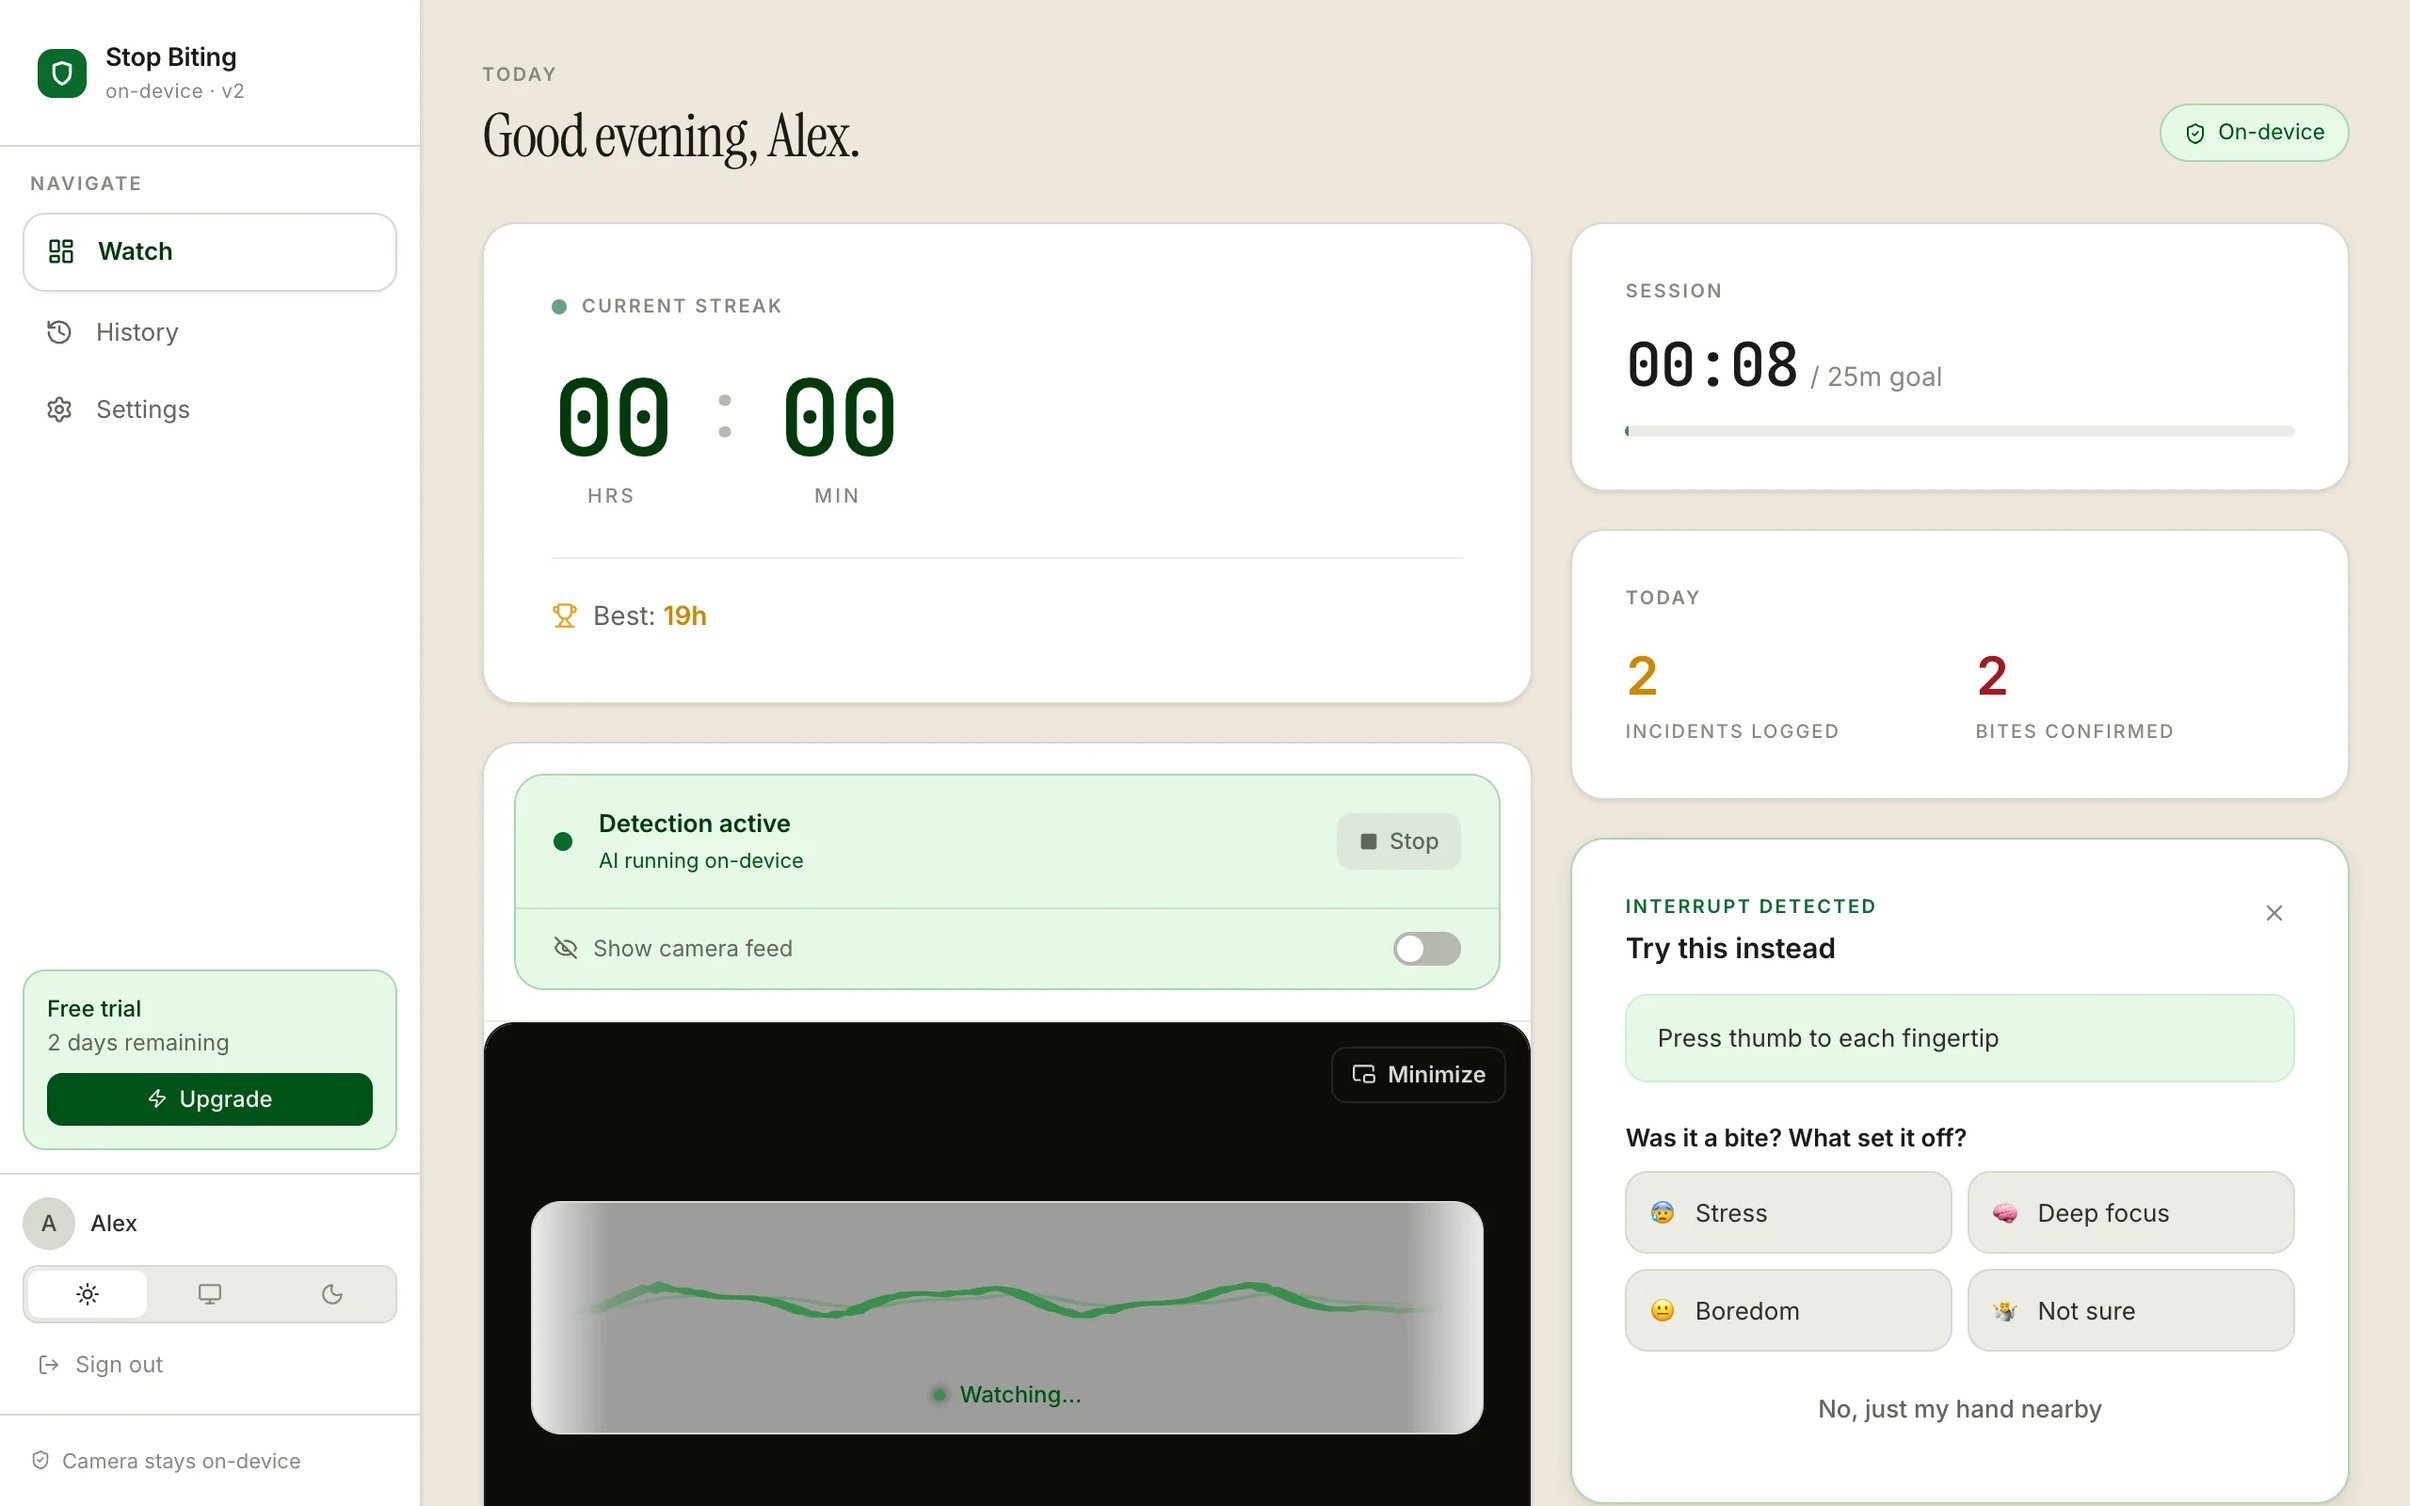
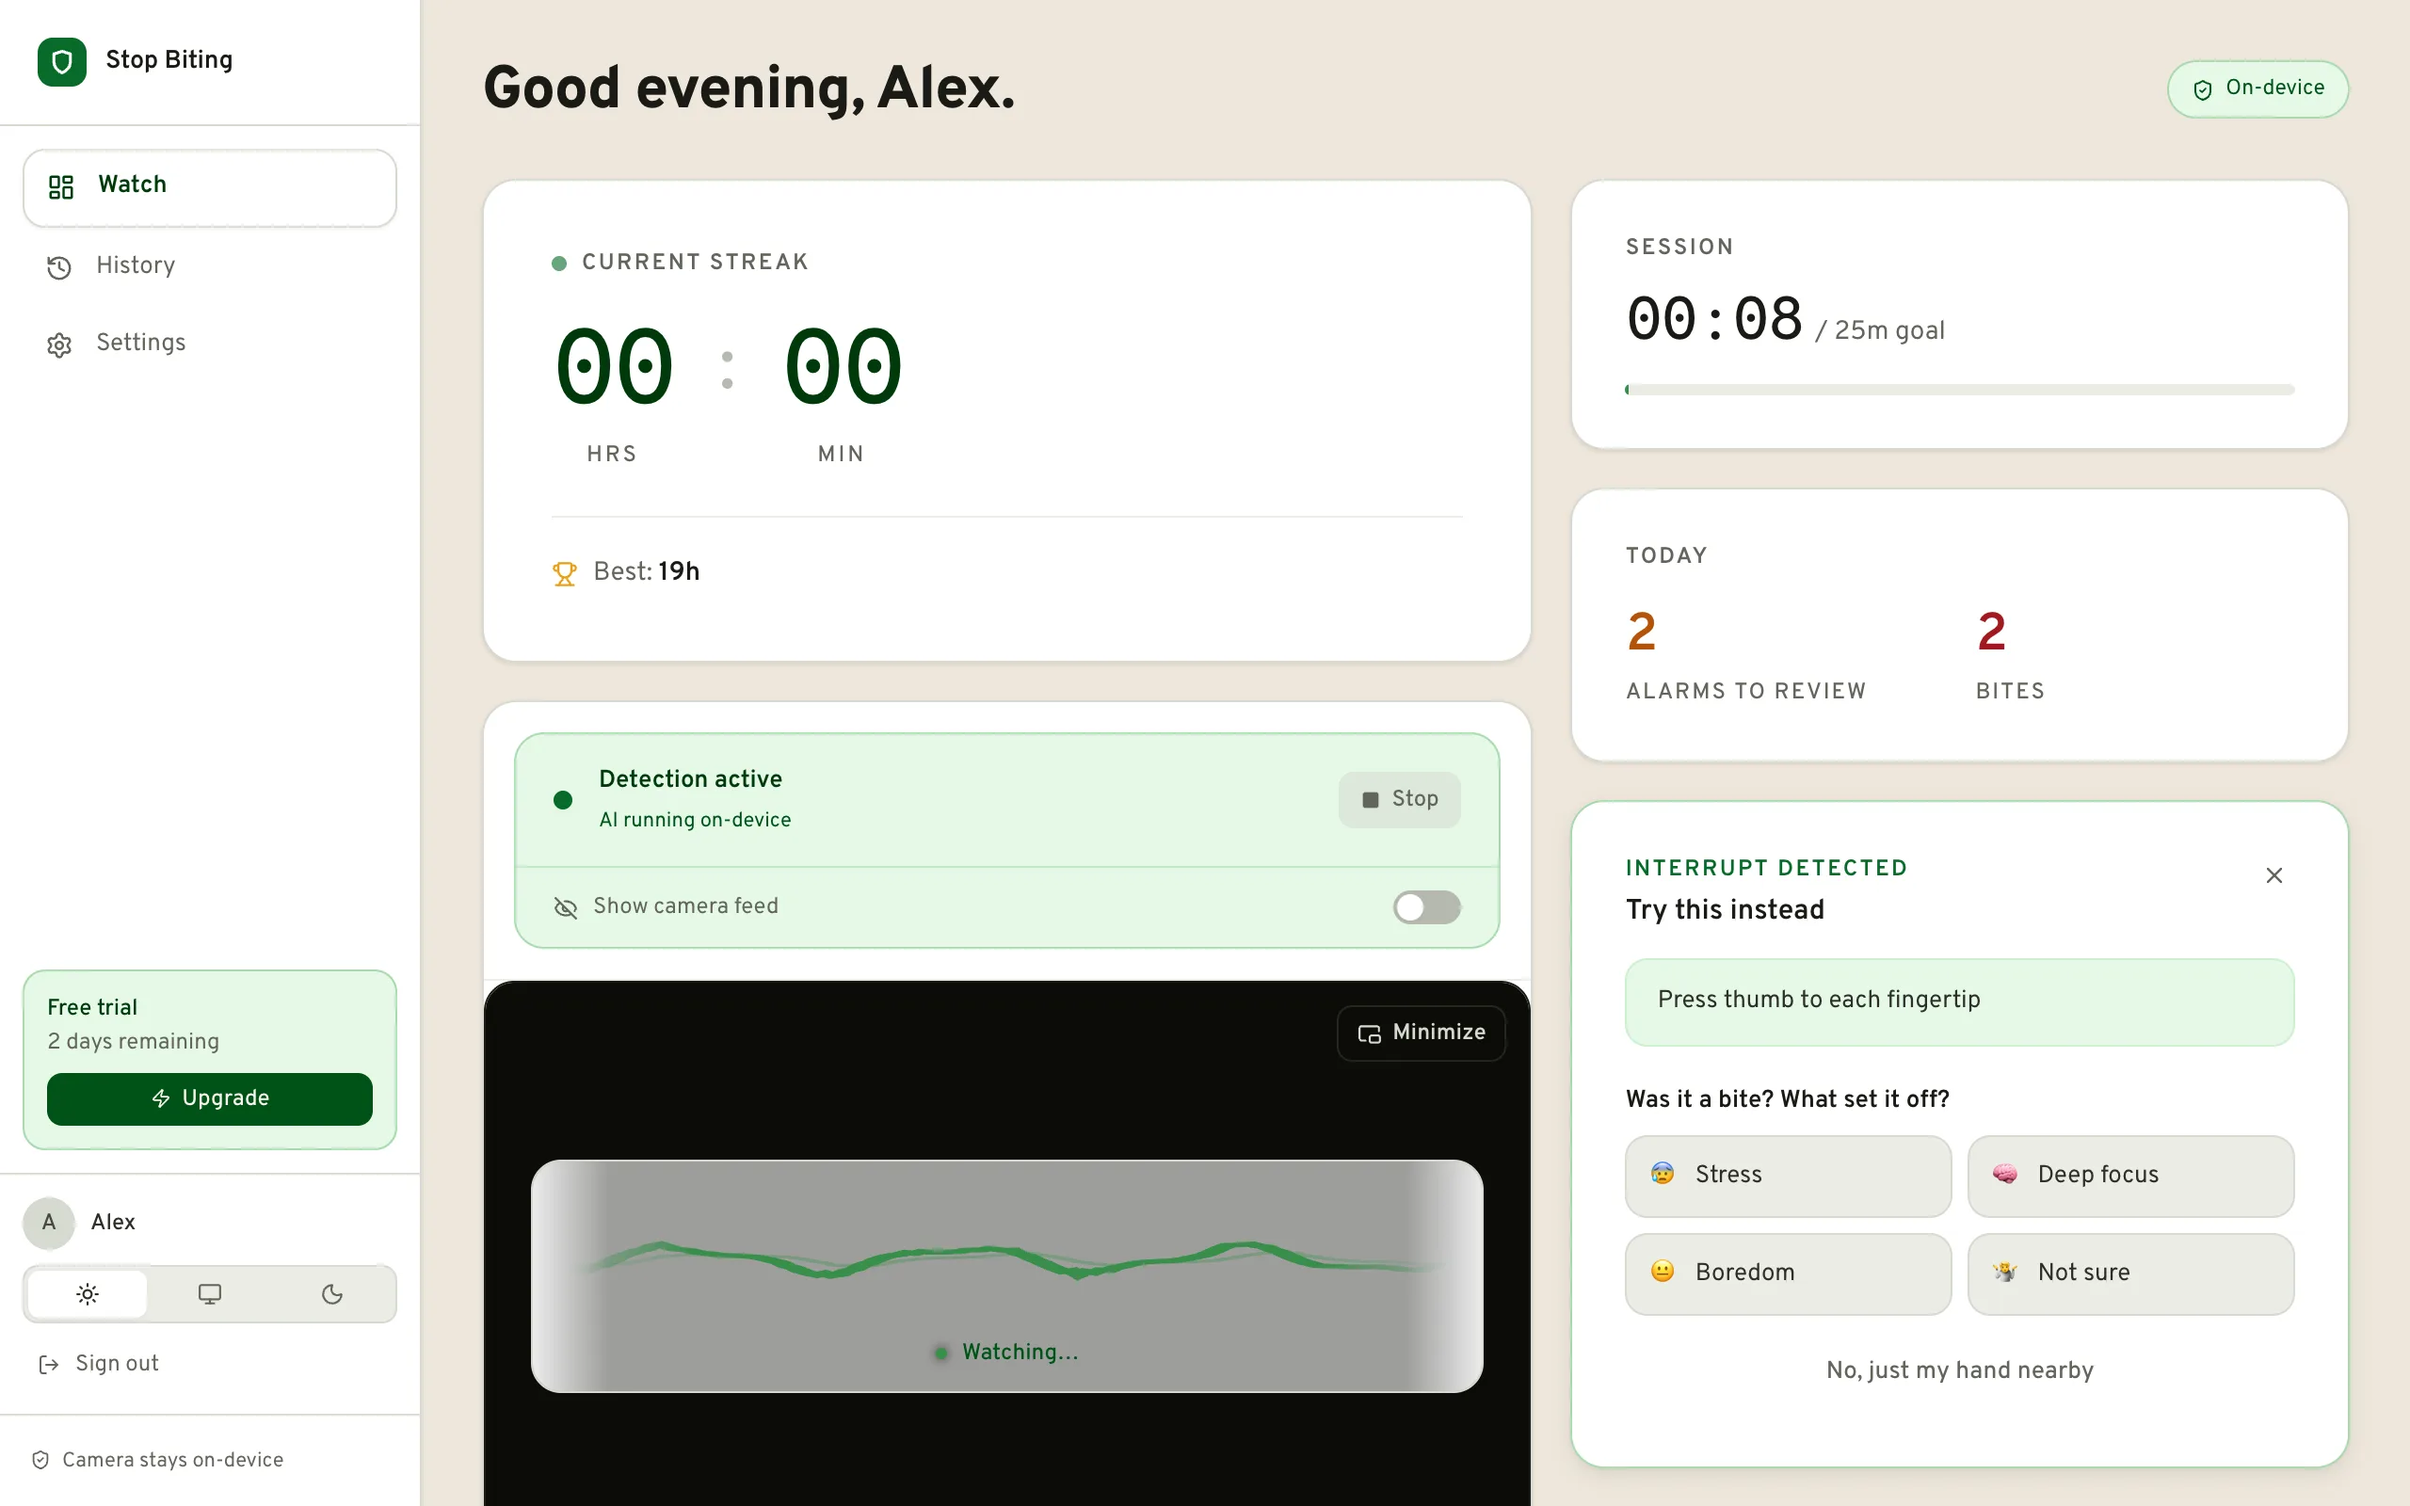
design(loop 7/10): sign in to the same typeface you signed up in
The signed-in app moves from Inter + Instrument Serif to the site's Overpass (text) and Overpass Mono (timers), scoped to the app shell via .app-type so the blog and legal pages keep their editorial type. Page titles are Overpass 800 with no uppercase kicker above them (TODAY / PROGRESS / SETTINGS / NAVIGATE removed; a banned pattern), Settings is titled Settings, the 'on-device · v2' jargon line is gone, the last 10.5px labels are 12px. Homepage app screenshots recaptured so they show the app as it now looks. Checked light and dark.

diff --git a/src/App.tsx b/src/App.tsx
@@ -52,7 +52,7 @@ type Tab = 'dashboard' | 'log' | 'settings';
 // a spinner, a flash, and then another spinner.
 function AppLoading() {
   return (
-    <div className="flex items-center justify-center min-h-dvh bg-cream-200 dark:bg-ink-100">
+    <div className="app-type flex items-center justify-center min-h-dvh bg-cream-200 dark:bg-ink-100">
       <div className="flex items-center gap-3 text-stone-400">
         <img src="/logo.svg" alt="" className="w-6 h-6 animate-pulse" />
         <span className="text-sm">Loading…</span>
@@ -85,10 +85,12 @@ function AppRouter() {
   if (accessStatus === 'paywall' || showPaywall) {
     return (
       <Suspense fallback={<AppLoading />}>
+        <div className="app-type">
         <PaywallPage
           onBack={accessStatus === 'trial_active' ? () => setShowPaywall(false) : undefined}
         />
         <PWAGuideModal />
+        </div>
       </Suspense>
     );
   }
@@ -96,6 +98,7 @@ function AppRouter() {
   // ── App (trial_active or subscribed) ────────────────────────────────────
   return (
     <Suspense fallback={<AppLoading />}>
+      <div className="app-type">
       <div className="flex bg-cream-200 dark:bg-ink-100 text-stone-800 dark:text-stone-200 min-h-dvh">
         <TabBar
           active={activeTab}
@@ -111,6 +114,7 @@ function AppRouter() {
       </div>
       <OnboardingTour />
       <PWAGuideModal />
+      </div>
     </Suspense>
   );
 }

diff --git a/src/components/layout/PageHeader.tsx b/src/components/layout/PageHeader.tsx
@@ -1,18 +1,16 @@
+// No eyebrow label above the title: a kicker over a heading is the one
+// pattern the design system bans outright (see DESIGN.md).
 interface Props {
-  eyebrow: string;
   title: string;
   right?: React.ReactNode;
 }
 
-export function PageHeader({ eyebrow, title, right }: Props) {
+export function PageHeader({ title, right }: Props) {
   return (
     <header className="flex items-end justify-between gap-6 mb-7">
       <div>
-        <p className="text-xs font-semibold tracking-[1.2px] uppercase text-stone-500 dark:text-stone-400">
-          {eyebrow}
-        </p>
         <h1
-          className="mt-2 font-display text-[32px] font-normal leading-[1.1] tracking-[-0.6px] text-stone-800 dark:text-stone-100"
+          className="text-[2rem] font-extrabold leading-[1.1] tracking-[-0.025em] text-stone-800 dark:text-stone-100"
         >
           {title}
         </h1>

diff --git a/src/components/layout/TabBar.tsx b/src/components/layout/TabBar.tsx
@@ -48,14 +48,12 @@ export function TabBar({ active, onChange, onUpgrade }: Props) {
             </div>
             <div>
               <p className="text-[13.5px] font-semibold tracking-[-0.1px] text-stone-800 dark:text-stone-100">Stop Biting</p>
-              <p className="text-[10.5px] text-stone-500 dark:text-stone-400 mt-[1px] tracking-[0.2px]">on-device · v2</p>
             </div>
           </div>
         </div>
 
         {/* Nav items */}
         <nav className="flex-1 p-3 space-y-0.5" aria-label="Main navigation">
-          <p className="text-xs font-semibold tracking-[1.2px] uppercase text-stone-500 dark:text-stone-400 mb-2 px-1">Navigate</p>
           {tabs.map(({ id, label, icon: Icon }) => {
             const isActive = active === id;
             return (

diff --git a/src/index.css b/src/index.css
@@ -185,6 +185,12 @@
 @tailwind base;
 @tailwind components;
 
+/* The signed-in app speaks the same type as the marketing site: Overpass for
+   text, Overpass Mono for the timers. Scoped to the app shell (App.tsx) so the
+   blog and legal pages keep their own editorial type. */
+.app-type { font-family: 'Overpass', -apple-system, BlinkMacSystemFont, 'Segoe UI', sans-serif; }
+.app-type .font-mono { font-family: 'Overpass Mono', ui-monospace, monospace; }
+
 /* A visible keyboard focus ring everywhere in the app (the signed-in screens
    had none; only .sg-page and .ed-page defined one). :where() keeps this at
    zero specificity, so those scoped rings and any component ring still win. */

diff --git a/src/components/dashboard/StreakHero.tsx b/src/components/dashboard/StreakHero.tsx
@@ -7,7 +7,7 @@ function Segment({ value, label }: { value: number; label: string }) {
       <span className="font-mono text-[44px] sm:text-[56px] font-medium leading-none tracking-[-2px] tabular-nums text-forest-700 dark:text-forest-300">
         {String(value).padStart(2, '0')}
       </span>
-      <span className="text-[10.5px] font-medium tracking-[1.5px] uppercase text-stone-500 dark:text-stone-400 mt-1.5">
+      <span className="text-xs font-medium tracking-[1.5px] uppercase text-stone-500 dark:text-stone-400 mt-1.5">
         {label}
       </span>
     </div>

diff --git a/src/pages/Dashboard.tsx b/src/pages/Dashboard.tsx
@@ -19,7 +19,6 @@ export function Dashboard() {
   return (
     <div className="p-5 sm:p-8 pb-10">
       <PageHeader
-        eyebrow="Today"
         title={`${greeting}, ${firstName}.`}
         right={
           <div className="flex items-center gap-1.5 text-forest-600 dark:text-forest-400 text-[11.5px] py-1.5 px-3 bg-forest-50 dark:bg-forest-900/30 border border-forest-200 dark:border-forest-800 rounded-full">

diff --git a/src/pages/Log.tsx b/src/pages/Log.tsx
@@ -155,7 +155,7 @@ export function Log() {
 
   return (
     <div className="p-5 sm:p-8 pb-10">
-      <PageHeader eyebrow="Progress" title="History" />
+      <PageHeader title="History" />
 
       {/* Split: chart left, incident list right — stacks on narrow sidebar viewports */}
       <div className="grid grid-cols-1 xl:grid-cols-[340px_1fr] gap-8 items-start">

diff --git a/src/pages/Settings.tsx b/src/pages/Settings.tsx
@@ -429,7 +429,7 @@ export function Settings({ onUpgrade }: { onUpgrade?: () => void }) {
 
   return (
     <div className="p-5 sm:p-8 pb-10 max-w-5xl">
-      <PageHeader eyebrow="Settings" title="Tune detection to your rhythm" />
+      <PageHeader title="Settings" />
       <div className="grid grid-cols-1 md:grid-cols-2 gap-4">
 
       {/* Plan */}

diff --git a/tasks/design-loop.md b/tasks/design-loop.md
@@ -1,14 +1,14 @@
 # Design loop (10 iterations, every 5 min)
 
-iterations: 6
+iterations: 7
 
 ## Log
 - 1/10: grid alignment (History, Why this exists, privacy 2-col), hero demo column de-duplicated, contact form gap + voice
 
 ## Backlog (from the loop-4 reviews; one per iteration, top first)
-- 7: App typography: Overpass in the app (tailwind sans/display), PageHeader h1 in Overpass 800, remove eyebrows ("TODAY", "NAVIGATE", "PROGRESS"); keep cream/forest palette; update DESIGN.md.
 - 8: Paywall: no "Pro" tier name, sentence case, honest privacy line (sign-in/payment use network), FEATURES from PricingSection, "$29" consistent, badge without em dash, buttons "Subscribe monthly/yearly".
 - 9: /pricing + /how-it-works copy: PLAN_INCLUDES reuse card wording; "About 0.6 seconds" consistently; competing response matches the app's suggestions; video-never-leaves wording; drop em dashes; mirror in server.js.
 - 10: Final dual review pass of everything; fix what remains (candidate: mobile-specific hero screenshot).
 - 5/10: History: aligned tags, Alarm/Bite vocabulary, title History, single-colour chart with text summary; homepage shot updated
 - 6/10: app AA pass: bigger/darker labels, amber to AA, focus ring, aria-current, theme moved to Settings, 44px Clear all
+- 7/10: app on Overpass/Overpass Mono, eyebrows removed, plain page titles, homepage app shots recaptured
